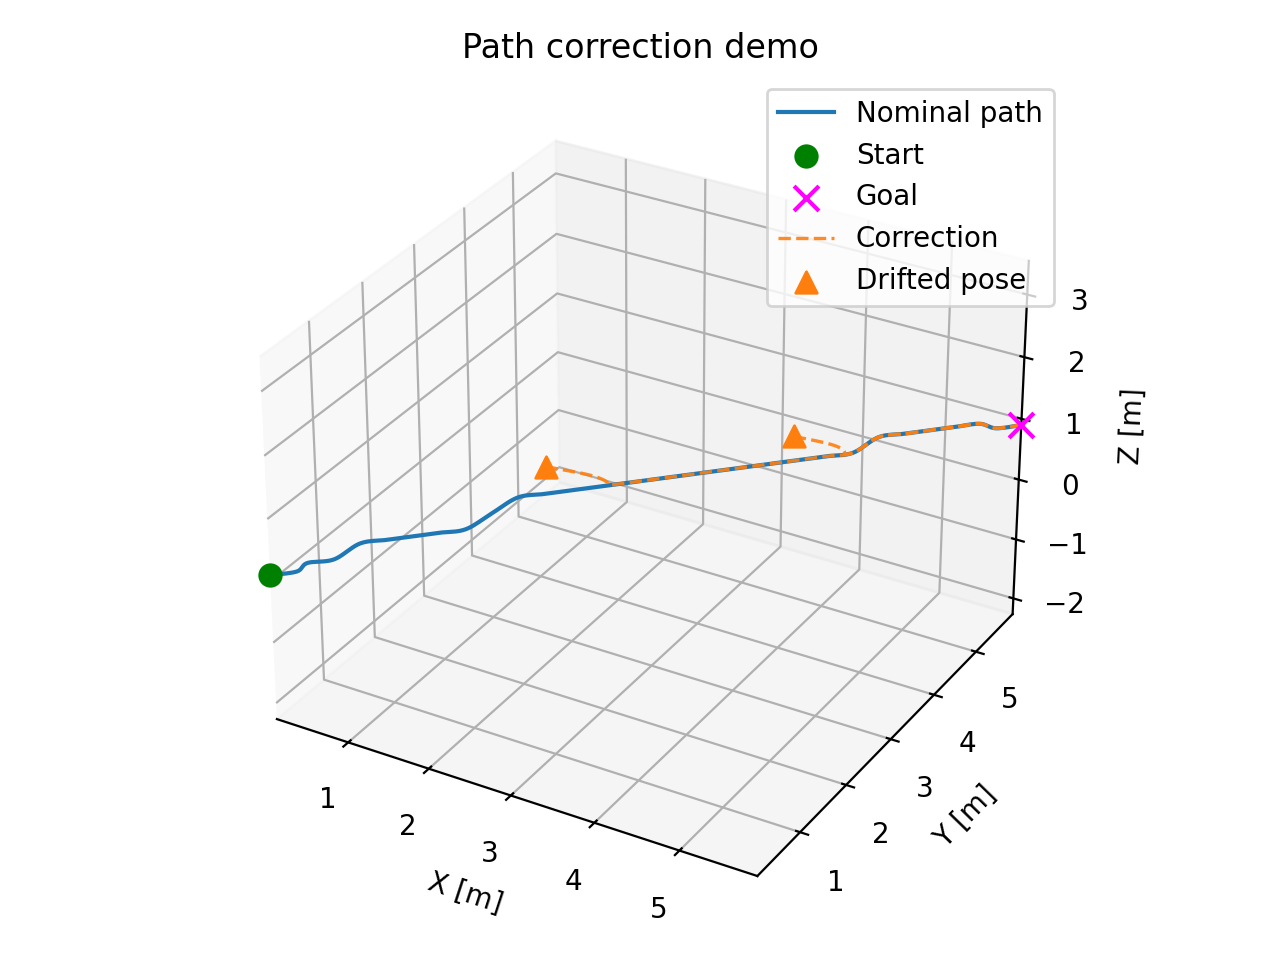
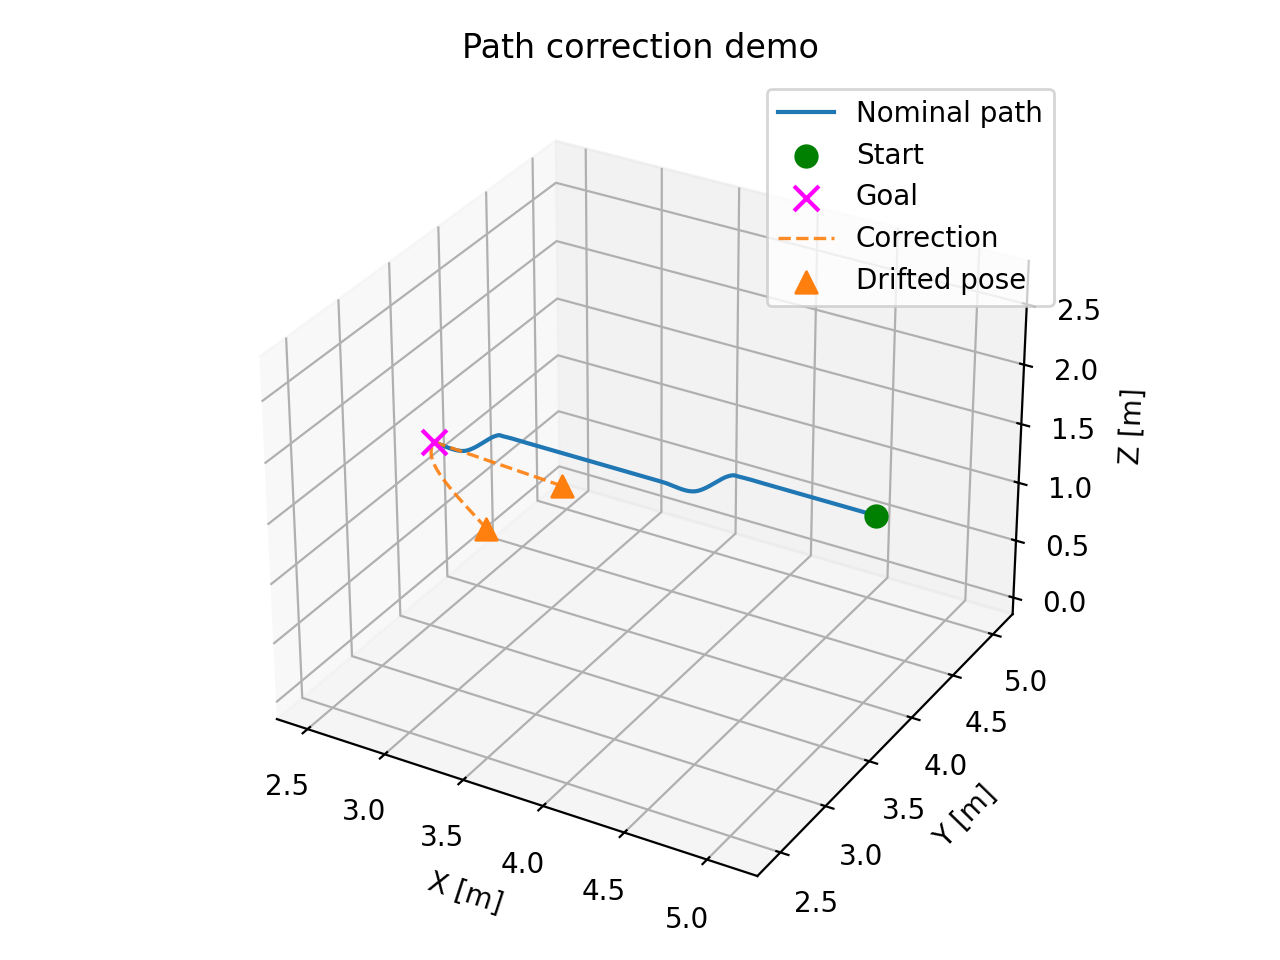
Improve start/goal sampling for visuals

diff --git a/run_correction_demo.py b/run_correction_demo.py
@@ -16,6 +16,52 @@ def generate_random_grid(shape: Tuple[int, int, int], obstacle_prob: float, rng:
     return (rng.random(shape) < obstacle_prob).astype(float)
 
 
+def pick_free_cell(free_mask: np.ndarray, rng: np.random.Generator) -> Tuple[int, int, int]:
+    """Pick a random free voxel index from a boolean free-mask."""
+    free = np.argwhere(free_mask)
+    if free.size == 0:
+        raise RuntimeError("No free cells to choose from.")
+    idx = rng.integers(0, free.shape[0])
+    return tuple(free[idx].tolist())
+
+
+def sample_start_and_goal(
+    free_mask: np.ndarray,
+    rng: np.random.Generator,
+    voxel_size: float,
+    origin: np.ndarray,
+    min_z_layers: int = 1,
+    min_dist: float = 1.0,
+    max_attempts: int = 100,
+) -> Tuple[np.ndarray, np.ndarray]:
+    """Sample start/goal in free space with separation and vertical difference for better visuals."""
+    free = np.argwhere(free_mask)
+    if free.size == 0:
+        raise RuntimeError("No free cells to choose from.")
+    attempts = 0
+    while attempts < max_attempts:
+        s_idx = free[rng.integers(0, len(free))]
+        g_idx = free[rng.integers(0, len(free))]
+        if np.array_equal(s_idx, g_idx):
+            attempts += 1
+            continue
+        if abs(s_idx[2] - g_idx[2]) < min_z_layers:
+            attempts += 1
+            continue
+        s_world = origin + (s_idx + 0.5) * voxel_size
+        g_world = origin + (g_idx + 0.5) * voxel_size
+        if np.linalg.norm(s_world - g_world) < min_dist:
+            attempts += 1
+            continue
+        return s_world, g_world
+    # fallback
+    s_idx = free[rng.integers(0, len(free))]
+    g_idx = free[rng.integers(0, len(free))]
+    while np.array_equal(s_idx, g_idx):
+        g_idx = free[rng.integers(0, len(free))]
+    return origin + (s_idx + 0.5) * voxel_size, origin + (g_idx + 0.5) * voxel_size
+
+
 def sample_drift_positions(path: np.ndarray, num_drifts: int, sigma: float, rng: np.random.Generator) -> List[np.ndarray]:
     """Pick positions near the path by adding randomized 3D offsets to random waypoints (excluding endpoints)."""
     if len(path) < 3:
@@ -126,10 +172,21 @@ def main(argv=None) -> int:
         origin=tuple(origin.tolist()),
     )
 
-    start_idx = (0, 0, 0)
-    goal_idx = (args.shape[0] - 1, args.shape[1] - 1, max(0, args.shape[2] // 2 - 1))
-    start_world = origin + (np.array(start_idx) + 0.5) * args.voxel_size
-    goal_world = origin + (np.array(goal_idx) + 0.5) * args.voxel_size
+    inflated = planner._inflate(occupancy)
+    free_mask = ~inflated
+
+    try:
+        start_world, goal_world = sample_start_and_goal(
+            free_mask,
+            rng,
+            args.voxel_size,
+            origin,
+            min_z_layers=2,
+            min_dist=2.0,
+        )
+    except RuntimeError:
+        print("No path found; free space too limited.")
+        return 1
 
     path = planner.plan(occupancy, start_world, goal_world)
     if path is None:
@@ -138,7 +195,6 @@ def main(argv=None) -> int:
     path_world = np.vstack(path)
     print(f"Found nominal path with {len(path_world)} waypoints.")
 
-    inflated = planner._inflate(occupancy)
     smoothed_path_world = smooth_path_catmull_rom(
         path_world,
         inflated,

diff --git a/run_voxel_planner_demo.py b/run_voxel_planner_demo.py
@@ -29,6 +29,43 @@ def pick_free_cell(free_mask: np.ndarray, rng: np.random.Generator) -> Tuple[int
     return tuple(free[idx].tolist())
 
 
+def sample_start_and_goal(
+    free_mask: np.ndarray,
+    rng: np.random.Generator,
+    voxel_size: float,
+    origin: np.ndarray,
+    min_z_layers: int = 1,
+    min_dist: float = 1.0,
+    max_attempts: int = 100,
+) -> Tuple[np.ndarray, np.ndarray]:
+    """Sample start/goal in free space with some separation and vertical difference for nicer visuals."""
+    free = np.argwhere(free_mask)
+    if free.size == 0:
+        raise RuntimeError("No free cells to choose from.")
+    attempts = 0
+    while attempts < max_attempts:
+        s_idx = free[rng.integers(0, len(free))]
+        g_idx = free[rng.integers(0, len(free))]
+        if np.array_equal(s_idx, g_idx):
+            attempts += 1
+            continue
+        if abs(s_idx[2] - g_idx[2]) < min_z_layers:
+            attempts += 1
+            continue
+        s_world = origin + (s_idx + 0.5) * voxel_size
+        g_world = origin + (g_idx + 0.5) * voxel_size
+        if np.linalg.norm(s_world - g_world) < min_dist:
+            attempts += 1
+            continue
+        return s_world, g_world
+    # fallback: just pick two different free cells
+    s_idx = free[rng.integers(0, len(free))]
+    g_idx = free[rng.integers(0, len(free))]
+    while np.array_equal(s_idx, g_idx):
+        g_idx = free[rng.integers(0, len(free))]
+    return origin + (s_idx + 0.5) * voxel_size, origin + (g_idx + 0.5) * voxel_size
+
+
 def visualize(
     occupancy: np.ndarray,
     path_world: np.ndarray,
@@ -162,18 +199,16 @@ def main(argv=None) -> int:
     inflated = planner._inflate(occupancy)
     free_mask = ~inflated
 
-    # Try a few draws for start/goal in free inflated space
-    attempts = 0
-    start_world = None
-    goal_world = None
-    while attempts < 20 and (start_world is None or goal_world is None or np.allclose(start_world, goal_world)):
-        start_idx = pick_free_cell(free_mask, rng)
-        goal_idx = pick_free_cell(free_mask, rng)
-        start_world = origin + (np.array(start_idx) + 0.5) * voxel_size
-        goal_world = origin + (np.array(goal_idx) + 0.5) * voxel_size
-        attempts += 1
-
-    if start_world is None or goal_world is None:
+    try:
+        start_world, goal_world = sample_start_and_goal(
+            free_mask,
+            rng,
+            voxel_size,
+            origin,
+            min_z_layers=2,
+            min_dist=2.0,
+        )
+    except RuntimeError:
         print("Could not sample free start/goal; grid too full.")
         return 1
 
